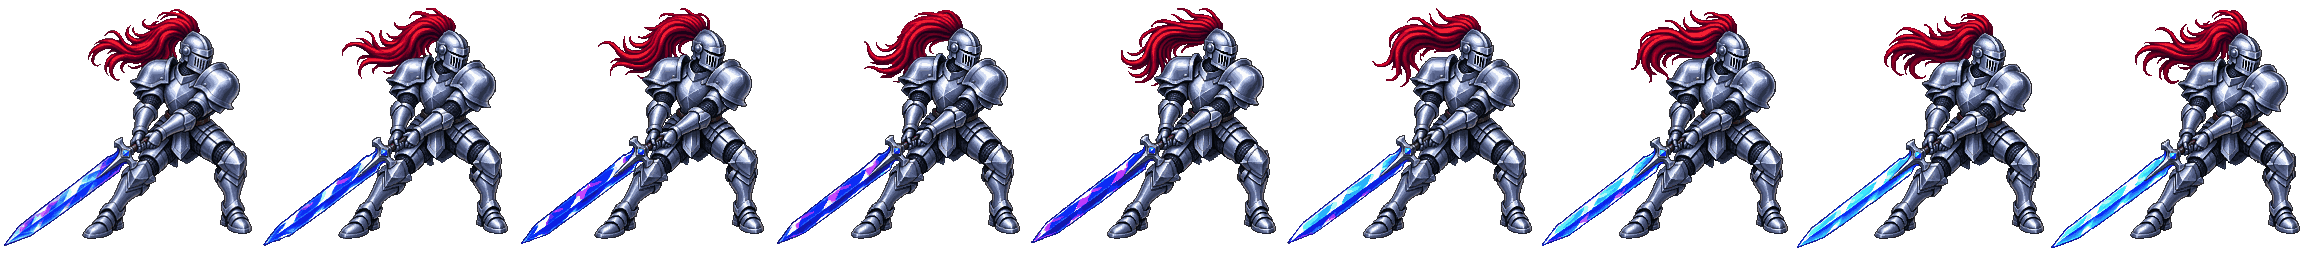
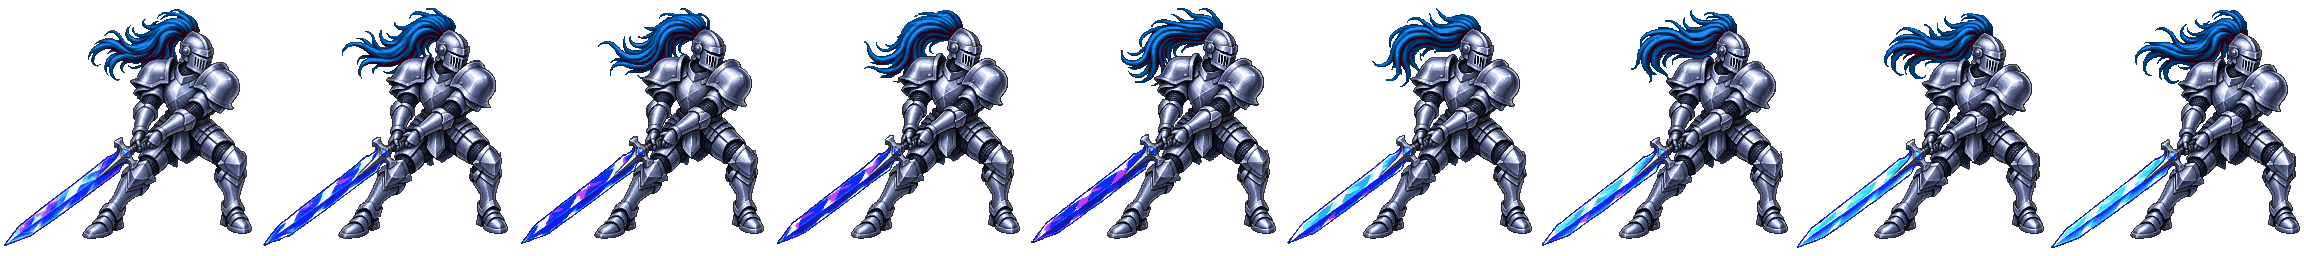
Turn Tide's helmet plume blue and enlist him in the Cryst sect
All seven of Tide's strips get the red plume hue-shifted to the same
icy blue family as his crystal blade — saturated red pixels only, so
the silver armor, skin-tones-under-visor and sword are untouched,
shading preserved. The placeholder tint's plume swatch follows.

Tide (florence) joins Cryst as its second member beside Aniani; the
sect roster test now pins him there instead of pinning him sectless.

Claude-Session: https://claude.ai/code/session_01CHYFnkEUrdHTgUUt5mpejj

diff --git a/test/data.test.js b/test/data.test.js
@@ -182,7 +182,7 @@ test('every race pack mirrors its gear set, tier for tier', () => {
 
 test('human sects hold real humans, once each, with their numbers', () => {
   const expected = {
-    cryst: { number: 1, members: ['echo'] },
+    cryst: { number: 1, members: ['echo', 'florence'] },
     hedge: { number: 3, members: ['vex', 'vivian', 'coral', 'emily'] },
     reverence: { number: 4, members: ['catherine', 'toll', 'javarious', 'leonardo', 'oak', 'silas', 'eli'] },
     shadowflower: { number: 2, members: ['sawyer'] },
@@ -203,7 +203,8 @@ test('human sects hold real humans, once each, with their numbers', () => {
       assert(RACES.sectOf(HEROES[m]) === sect, `sectOf(${m}) misses`);
     }
   }
-  assert(RACES.sectOf(HEROES.florence) === null, 'Florence has no sect yet');
+  assert(RACES.sectOf(HEROES.florence) === RACES.SECTS.cryst,
+    'Tide marches with Cryst now');
 });
 
 test('every hero resolves a full tag line', () => {

diff --git a/js/races.js b/js/races.js
@@ -54,10 +54,10 @@ const RACES = (() => {
   // Human sects: the named heroes belong to orders, each with an
   // assigned number (a designation, not a roster size — Reverence is
   // No. 4 and runs seven strong). Members are hero ids; 'echo' is
-  // Aniani. Florence stands outside the sects for now.
+  // Aniani, 'florence' is Tide (the Crystal Blade wears Cryst blue).
   const SECTS = {
     cryst:     { id: 'cryst',     name: 'Cryst',     number: 1,
-                 members: ['echo'] },
+                 members: ['echo', 'florence'] },
     hedge:     { id: 'hedge',     name: 'Hedge',     number: 3,
                  members: ['vex', 'vivian', 'coral', 'emily'] },
     reverence: { id: 'reverence', name: 'Reverence', number: 4,

diff --git a/js/data/heroes/humans.js b/js/data/heroes/humans.js
@@ -698,8 +698,9 @@ Object.assign(HEROES, {
     title: 'Crystal Blade',
     rarity: 4,
     stats: { hp: 1450, atk: 240, def: 130, speed: 105 },
-    // Placeholder tint (silver armor, crystal sword) until strips load.
-    tint: { body: '#8d9bb8', helm: '#c8d0e0', weapon: '#8ad8ff', shield: '#a83a3a' },
+    // Placeholder tint (silver armor, crystal sword, blue plume) until
+    // strips load.
+    tint: { body: '#8d9bb8', helm: '#c8d0e0', weapon: '#8ad8ff', shield: '#3a5ac8' },
     sprite: {
       displayH: 88,
       // Manual: her body is in the right half of the frame, and the low
